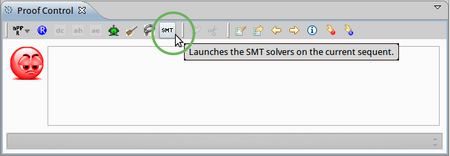
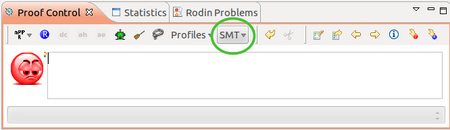
Regenerate help for SMT 1.2.0

diff --git a/org.eventb.smt.help/html/smt_solvers_plug_in.html b/org.eventb.smt.help/html/smt_solvers_plug_in.html
@@ -19,7 +19,7 @@
 
 <script src="http://wiki.event-b.org/load.php?debug=false&amp;lang=en&amp;modules=startup&amp;only=scripts&amp;skin=monobook&amp;*"></script>
 <script>if(window.mw){
-mw.config.set({"wgCanonicalNamespace":"","wgCanonicalSpecialPageName":false,"wgNamespaceNumber":0,"wgPageName":"SMT_Solvers_Plug-in","wgTitle":"SMT Solvers Plug-in","wgCurRevisionId":13404,"wgArticleId":1173,"wgIsArticle":true,"wgAction":"view","wgUserName":null,"wgUserGroups":["*"],"wgCategories":["Plugin","User documentation"],"wgBreakFrames":false,"wgPageContentLanguage":"en","wgSeparatorTransformTable":["",""],"wgDigitTransformTable":["",""],"wgRelevantPageName":"SMT_Solvers_Plug-in","wgRestrictionEdit":[],"wgRestrictionMove":[]});
+mw.config.set({"wgCanonicalNamespace":"","wgCanonicalSpecialPageName":false,"wgNamespaceNumber":0,"wgPageName":"SMT_Solvers_Plug-in","wgTitle":"SMT Solvers Plug-in","wgCurRevisionId":13538,"wgArticleId":1173,"wgIsArticle":true,"wgAction":"view","wgUserName":null,"wgUserGroups":["*"],"wgCategories":["Plugin","User documentation"],"wgBreakFrames":false,"wgPageContentLanguage":"en","wgSeparatorTransformTable":["",""],"wgDigitTransformTable":["",""],"wgRelevantPageName":"SMT_Solvers_Plug-in","wgRestrictionEdit":[],"wgRestrictionMove":[]});
 }</script><script>if(window.mw){
 mw.loader.implement("user.options",function($){mw.user.options.set({"ccmeonemails":0,"cols":80,"date":"default","diffonly":0,"disablemail":0,"disablesuggest":0,"editfont":"default","editondblclick":0,"editsection":1,"editsectiononrightclick":0,"enotifminoredits":0,"enotifrevealaddr":0,"enotifusertalkpages":1,"enotifwatchlistpages":0,"extendwatchlist":0,"externaldiff":0,"externaleditor":0,"fancysig":0,"forceeditsummary":0,"gender":"unknown","hideminor":0,"hidepatrolled":0,"highlightbroken":1,"imagesize":2,"justify":0,"math":0,"minordefault":0,"newpageshidepatrolled":0,"nocache":0,"noconvertlink":0,"norollbackdiff":0,"numberheadings":0,"previewonfirst":0,"previewontop":1,"quickbar":5,"rcdays":7,"rclimit":50,"rememberpassword":0,"rows":25,"searchlimit":20,"showhiddencats":0,"showjumplinks":1,"shownumberswatching":1,"showtoc":1,"showtoolbar":1,"skin":"monobook","stubthreshold":0,"thumbsize":2,"underline":2,"uselivepreview":0,"usenewrc":0,"watchcreations":0,"watchdefault":0,"watchdeletion":
 0,"watchlistdays":3,"watchlisthideanons":0,"watchlisthidebots":0,"watchlisthideliu":0,"watchlisthideminor":0,"watchlisthideown":0,"watchlisthidepatrolled":0,"watchmoves":0,"wllimit":250,"variant":"en","language":"en","searchNs0":true,"searchNs1":false,"searchNs2":false,"searchNs3":false,"searchNs4":false,"searchNs5":false,"searchNs6":false,"searchNs7":false,"searchNs8":false,"searchNs9":false,"searchNs10":false,"searchNs11":false,"searchNs12":false,"searchNs13":false,"searchNs14":false,"searchNs15":false});;},{},{});mw.loader.implement("user.tokens",function($){mw.user.tokens.set({"editToken":"+\\","watchToken":false});;},{},{});
@@ -95,8 +95,8 @@ mw.loader.load(["mediawiki.page.startup","mediawiki.legacy.wikibits","mediawiki.
 </li>
 <li class="toclevel-1 tocsection-29"><a href="#SMT_Auto-Tactic_Profile"><span class="tocnumber">8</span> <span class="toctext">SMT Auto-Tactic Profile</span></a>
 <ul>
-<li class="toclevel-2 tocsection-30"><a href="#Creating_a_New_SMT_Auto-Tactic_Profile"><span class="tocnumber">8.1</span> <span class="toctext">Creating a New SMT Auto-Tactic Profile</span></a></li>
-<li class="toclevel-2 tocsection-31"><a href="#Selecting_an_SMT_Auto-Tactic_Profile"><span class="tocnumber">8.2</span> <span class="toctext">Selecting an SMT Auto-Tactic Profile</span></a></li>
+<li class="toclevel-2 tocsection-30"><a href="#Selecting_an_SMT_Auto-Tactic_Profile"><span class="tocnumber">8.1</span> <span class="toctext">Selecting an SMT Auto-Tactic Profile</span></a></li>
+<li class="toclevel-2 tocsection-31"><a href="#Creating_a_New_SMT_Auto-Tactic_Profile"><span class="tocnumber">8.2</span> <span class="toctext">Creating a New SMT Auto-Tactic Profile</span></a></li>
 </ul>
 </li>
 <li class="toclevel-1 tocsection-32"><a href="#Bugs_and_Features_Request"><span class="tocnumber">9</span> <span class="toctext">Bugs and Features Request</span></a></li>
@@ -155,10 +155,15 @@ To use additional solvers, see <a href="#Installing_additional_SMT_solvers">#Ins
 </p><p><i>thm1</i> is a theorem which must be proved given axioms <i>axm2..axm5</i>.
 </p><p><br />
 Since we installed SMT Solvers Plug-in into the Rodin Platform, the SMT tactic button is now accessible in the <i>Proof Control</i> bar.
-</p><p><a class="image" href="http://wiki.event-b.org/index.php/File:SMT_button.png"><img alt="SMT button.png" height="156" src="images/450px_smt_button.png" width="450" /></a>
+</p><p><a class="image" href="http://wiki.event-b.org/index.php/File:SMT_button.png"><img alt="SMT button.png" height="130" src="images/450px_smt_button.png" width="450" /></a>
 </p><p><br />
-Clicking on this button will call successively every enabled SMT solver configurations, which will discharge the proof obligation if possible:
-</p><p><a class="image" href="http://wiki.event-b.org/index.php/File:Tactic_applied_successfully.png"><img alt="Tactic applied successfully.png" height="167" src="images/450px_tactic_applied_successfully.png" width="450" /></a>
+Clicking on this button will show the list of all available SMT solver configurations.
+</p><p><a class="image" href="http://wiki.event-b.org/index.php/File:SMT_dropdown.png"><img alt="SMT dropdown.png" height="130" src="images/450px_smt_dropdown.png" width="450" /></a>
+</p><p><br />
+The first one, "All enabled SMT", will call successively every enabled SMT solver configurations.
+Others are all individual configurations, which may be enabled or not.
+Clicking one of them will discharge the proof obligation if possible:
+</p><p><a class="image" href="http://wiki.event-b.org/index.php/File:Tactic_applied_successfully.png"><img alt="Tactic applied successfully.png" height="130" src="images/450px_tactic_applied_successfully.png" width="450" /></a>
 </p><p><br />
 When the tactic is applied successfully, this means that the reasonner created the new proof rule:
 </p><p><a class="image" href="http://wiki.event-b.org/index.php/File:Proof_Tree_and_Rule_Details.png"><img alt="Proof Tree and Rule Details.png" height="275" src="images/proof_tree_and_rule_details.png" width="271" /></a>
@@ -195,7 +200,7 @@ PROOF_PRODUCTION = YES
 <p>The CVC3 solver can be downloaded from <a class="external free" href="http://cs.nyu.edu/acsys/cvc3/download.html" rel="nofollow">http://cs.nyu.edu/acsys/cvc3/download.html</a>, or installed using the Ubuntu repository: <i>cvc3</i> package.
 </p>
 <h3> <span class="mw-headline" id="Installing_Z3"> Installing Z3 </span></h3>
-<p>The Z3 solver can be downloaded from <a class="external free" href="http://research.microsoft.com/en-us/um/redmond/projects/z3/download.html" rel="nofollow">http://research.microsoft.com/en-us/um/redmond/projects/z3/download.html</a>.
+<p>The Z3 solver can be downloaded from <a class="external free" href="http://z3.codeplex.com" rel="nofollow">http://z3.codeplex.com</a> .
 </p>
 <h2> <span class="mw-headline" id="Connect_added_solvers_to_the_Rodin_Platform"> Connect added solvers to the Rodin Platform </span></h2>
 <p>In order to use some SMT Solver, you must connect it to the Rodin platform by adding it to the list of known solvers, and adding SMT configurations to be used by the SMT tactic.<br />
@@ -301,9 +306,17 @@ The default translation directory path is the system temporary directory path.<b
 The default timeout is 1000.
 </p>
 <h2> <span class="mw-headline" id="SMT_Auto-Tactic_Profile"> SMT Auto-Tactic Profile </span></h2>
-<p>One might want to set-up one or several configurations of SMT solver to be used automatically to discharge Event-b sequents in the Rodin platform.<br />
-Since version 2.3 of Rodin, it is possible to create new <i>tactic combinations</i> called <i>profiles</i> to be applied automatically (See <i>Advanced Profile Customisation</i> in <a href="http://wiki.event-b.org/index.php/Rodin_Platform_2.3_Release_Notes" title="Rodin Platform 2.3 Release Notes">Rodin_Platform_2.3_Release_Notes</a> and <i>3.1.8.4 Sequent Prover / Auto/Post Tactic</i> in <a class="external text" href="http://handbook.event-b.org/current/html/preferences.html" rel="nofollow">the preference page of the Rodin User’s Handbook v.2.4</a>).<br />
-Since version 0.8.0 of the plug-in, an Auto-Tactic profile using SMT solvers is available in the plug-in. To use this profile, see <a href="#Selecting_an_SMT_auto-tactic_profile">#Selecting an SMT auto-tactic profile</a>.
+<p>Since version 0.8.0 of the plug-in, an Auto-Tactic profile using SMT solvers is available in the plug-in. To use this profile, see <a href="#Selecting_an_SMT_auto-tactic_profile">#Selecting an SMT auto-tactic profile</a>.
+</p><p>One might also want to set-up one or several custom configurations of SMT solver to be used automatically to discharge Event-B sequents in the Rodin platform.<br />
+For more information about tactic profiles, see <i>Advanced Profile Customisation</i> in <a href="http://wiki.event-b.org/index.php/Rodin_Platform_2.3_Release_Notes" title="Rodin Platform 2.3 Release Notes">Rodin_Platform_2.3_Release_Notes</a> and <i>3.1.8.4 Sequent Prover / Auto/Post Tactic</i> in <a class="external text" href="http://handbook.event-b.org/current/html/preferences.html" rel="nofollow">the preference page of the Rodin User’s Handbook v.2.4</a>.<br />
+</p>
+<h3> <span class="mw-headline" id="Selecting_an_SMT_Auto-Tactic_Profile"> Selecting an SMT Auto-Tactic Profile </span></h3>
+<p>One may want to use the new SMT auto-tactic profile (available since version 0.8.0 of the plug-in), or a user-defined profile using SMT solvers.
+</p><p>To set it on, go to the <i>Auto/Post Tactic</i> tab.
+</p><p><a class="image" href="http://wiki.event-b.org/index.php/File:Smt_auto_tactic_profile_selected.png"><img alt="Smt auto tactic profile selected.png" height="272" src="images/450px_smt_auto_tactic_profile_selected.png" width="450" /></a>
+</p><p>Set the tactic profile to be used for auto-tactics up to the one combining the SMT tactic, by using the drop-down menu.
+</p><p>Then click <i>Ok</i>.
+</p><p>Now, the combined tactics of your new profile, including the SMT tactic, will be automatically launched when auto-provers are called.
 </p>
 <h3> <span class="mw-headline" id="Creating_a_New_SMT_Auto-Tactic_Profile"> Creating a New SMT Auto-Tactic Profile </span></h3>
 <p>A reasonable combination using the SMT tactic is an SMT tactic queued to the default auto tactic combination. We show here how to create such a <i>profile</i>.
@@ -319,21 +332,18 @@ Open the <i>Auto/Post Tactic</i> preferences page: <i>Event-B &gt; Sequent Prove
 </p><p><a class="image" href="http://wiki.event-b.org/index.php/File:Adding_smt_tactic_in_profile.png"><img alt="Adding smt tactic in profile.png" height="289" src="images/450px_adding_smt_tactic_in_profile.png" width="450" /></a>
 </p><p>Then click <i>Finish</i>.
 </p><p>Now a new profile combining the SMT tactic with other tactics is created.
-</p><p><br />
-</p>
-<h3> <span class="mw-headline" id="Selecting_an_SMT_Auto-Tactic_Profile"> Selecting an SMT Auto-Tactic Profile </span></h3>
-<p>One may want to use the new SMT auto-tactic profile (available since version 0.8.0 of the plug-in), or a user-defined profile using SMT solvers.
-</p><p>To set it on, go to the <i>Auto/Post Tactic</i> tab.
-</p><p><a class="image" href="http://wiki.event-b.org/index.php/File:Smt_auto_tactic_profile_selected.png"><img alt="Smt auto tactic profile selected.png" height="272" src="images/450px_smt_auto_tactic_profile_selected.png" width="450" /></a>
-</p><p>Set the tactic profile to be used for auto-tactics up to the one combining the SMT tactic, by using the drop-down menu.
-</p><p>Then click <i>Ok</i>.
-</p><p>Now, the combined tactics of your new profile, including the SMT tactic, will be automatically launched when auto-provers are called.
 </p>
 <h2> <span class="mw-headline" id="Bugs_and_Features_Request"> Bugs and Features Request </span></h2>
 <ul><li> SMT-LIB 2.0 support with the veriT translation approach in developpment
 </li><li> Full set theory support in progress
+</li><li> Support of division, modulo and exponentiation
 </li></ul>
 <h2> <span class="mw-headline" id="Releases_Notes"> Releases Notes </span></h2>
+<p><b>Version 1.2.0</b>
+</p>
+<ul><li> Port to Rodin 3.0
+</li><li> Shortcut to solver configurations in Proof Control
+</li></ul>
 <p><b>Version 1.1.0</b>
 </p>
 <ul><li> Preference for auto tactic timeout.
@@ -390,9 +400,9 @@ Template argument size: 0/2097152 bytes
 Expensive parser function count: 0/100
 -->
 
-<!-- Saved in parser cache with key mediawiki_eventb:pcache:idhash:1173-0!*!0!!en!2!* and timestamp 20131017132404 -->
+<!-- Saved in parser cache with key mediawiki_eventb:pcache:idhash:1173-0!*!0!!en!2!* and timestamp 20140306172611 -->
 </div><div class="printfooter">
-Retrieved from "<a href="http://wiki.event-b.org/index.php?title=SMT_Solvers_Plug-in&amp;oldid=13404">http://wiki.event-b.org/index.php?title=SMT_Solvers_Plug-in&amp;oldid=13404</a>"</div>
+Retrieved from "<a href="http://wiki.event-b.org/index.php?title=SMT_Solvers_Plug-in&amp;oldid=13538">http://wiki.event-b.org/index.php?title=SMT_Solvers_Plug-in&amp;oldid=13538</a>"</div>
 		<div class="catlinks" id="catlinks"><div class="mw-normal-catlinks" id="mw-normal-catlinks"><a href="http://wiki.event-b.org/index.php/Special:Categories" title="Special:Categories">Categories</a>: <ul><li><a href="http://wiki.event-b.org/index.php/Category:Plugin" title="Category:Plugin">Plugin</a></li><li><a href="http://wiki.event-b.org/index.php/Category:User_documentation" title="Category:User documentation">User documentation</a></li></ul></div></div>		<!-- end content --><!-- ('div', {'class': 'visualClear'}) ('/div', {}) --></div></div></div>
     <div id="column-one">
       <!-- ('div', {'id': 'p-cactions', 'class': 'portlet'}) ('/div', {}) -->
@@ -409,8 +419,8 @@ Retrieved from "<a href="http://wiki.event-b.org/index.php?title=SMT_Solvers_Plu
 <!-- ('div', {'class': 'visualClear'}) ('/div', {}) -->
 <div id="footerHacked">
 	<ul id="f-list">
-		<li id="lastmod"> This page was last modified on 17 October 2013, at 14:24.</li>
-		<li id="viewcount">This page has been accessed 10,278 times.</li>
+		<li id="lastmod"> This page was last modified on 6 March 2014, at 17:26.</li>
+		<li id="viewcount">This page has been accessed 12,639 times.</li>
 		<li id="privacy"><a href="http://wiki.event-b.org/index.php/Event-B:Privacy_policy" title="Event-B:Privacy policy">Privacy policy</a></li>
 		<li id="about"><a href="http://wiki.event-b.org/index.php/Event-B:About" title="Event-B:About">About Event-B</a></li>
 		<li id="disclaimer"><a href="http://wiki.event-b.org/index.php/Event-B:General_disclaimer" title="Event-B:General disclaimer">Disclaimers</a></li>
@@ -421,4 +431,4 @@ Retrieved from "<a href="http://wiki.event-b.org/index.php?title=SMT_Solvers_Plu
 mw.loader.load(["mediawiki.user","mediawiki.page.ready"], null, true);
 }</script>
 <script src="http://wiki.event-b.org/load.php?debug=false&amp;lang=en&amp;modules=site&amp;only=scripts&amp;skin=monobook&amp;*"></script>
-<!-- Served in 0.244 secs. --><br /></body></html>
+<!-- Served in 0.357 secs. --><br /></body></html>

diff --git a/org.eventb.smt.help/html/smt_solvers_plug_in_developer_support.html b/org.eventb.smt.help/html/smt_solvers_plug_in_developer_support.html
@@ -168,7 +168,7 @@ Template argument size: 0/2097152 bytes
 Expensive parser function count: 0/100
 -->
 
-<!-- Saved in parser cache with key mediawiki_eventb:pcache:idhash:1712-0!*!0!!en!2!* and timestamp 20131017083834 -->
+<!-- Saved in parser cache with key mediawiki_eventb:pcache:idhash:1712-0!*!0!!en!2!* and timestamp 20140306063743 -->
 </div><div class="printfooter">
 Retrieved from "<a href="http://wiki.event-b.org/index.php?title=SMT_Solvers_Plug-in_Developer_Support&amp;oldid=13399">http://wiki.event-b.org/index.php?title=SMT_Solvers_Plug-in_Developer_Support&amp;oldid=13399</a>"</div>
 		<div class="catlinks" id="catlinks"><div class="mw-normal-catlinks" id="mw-normal-catlinks"><a href="http://wiki.event-b.org/index.php/Special:Categories" title="Special:Categories">Categories</a>: <ul><li><a href="http://wiki.event-b.org/index.php/Category:Plugin" title="Category:Plugin">Plugin</a></li><li><a href="http://wiki.event-b.org/index.php/Category:Developer_documentation" title="Category:Developer documentation">Developer documentation</a></li></ul></div></div>		<!-- end content --><!-- ('div', {'class': 'visualClear'}) ('/div', {}) --></div></div></div>
@@ -187,8 +187,8 @@ Retrieved from "<a href="http://wiki.event-b.org/index.php?title=SMT_Solvers_Plu
 <!-- ('div', {'class': 'visualClear'}) ('/div', {}) -->
 <div id="footerHacked">
 	<ul id="f-list">
-		<li id="lastmod"> This page was last modified on 12 October 2013, at 13:14.</li>
-		<li id="viewcount">This page has been accessed 919 times.</li>
+		<li id="lastmod"> This page was last modified on 12 October 2013, at 12:14.</li>
+		<li id="viewcount">This page has been accessed 1,188 times.</li>
 		<li id="privacy"><a href="http://wiki.event-b.org/index.php/Event-B:Privacy_policy" title="Event-B:Privacy policy">Privacy policy</a></li>
 		<li id="about"><a href="http://wiki.event-b.org/index.php/Event-B:About" title="Event-B:About">About Event-B</a></li>
 		<li id="disclaimer"><a href="http://wiki.event-b.org/index.php/Event-B:General_disclaimer" title="Event-B:General disclaimer">Disclaimers</a></li>
@@ -199,4 +199,4 @@ Retrieved from "<a href="http://wiki.event-b.org/index.php?title=SMT_Solvers_Plu
 mw.loader.load(["mediawiki.user","mediawiki.page.ready"], null, true);
 }</script>
 <script src="http://wiki.event-b.org/load.php?debug=false&amp;lang=en&amp;modules=site&amp;only=scripts&amp;skin=monobook&amp;*"></script>
-<!-- Served in 0.326 secs. --><br /></body></html>
+<!-- Served in 0.165 secs. --><br /></body></html>
